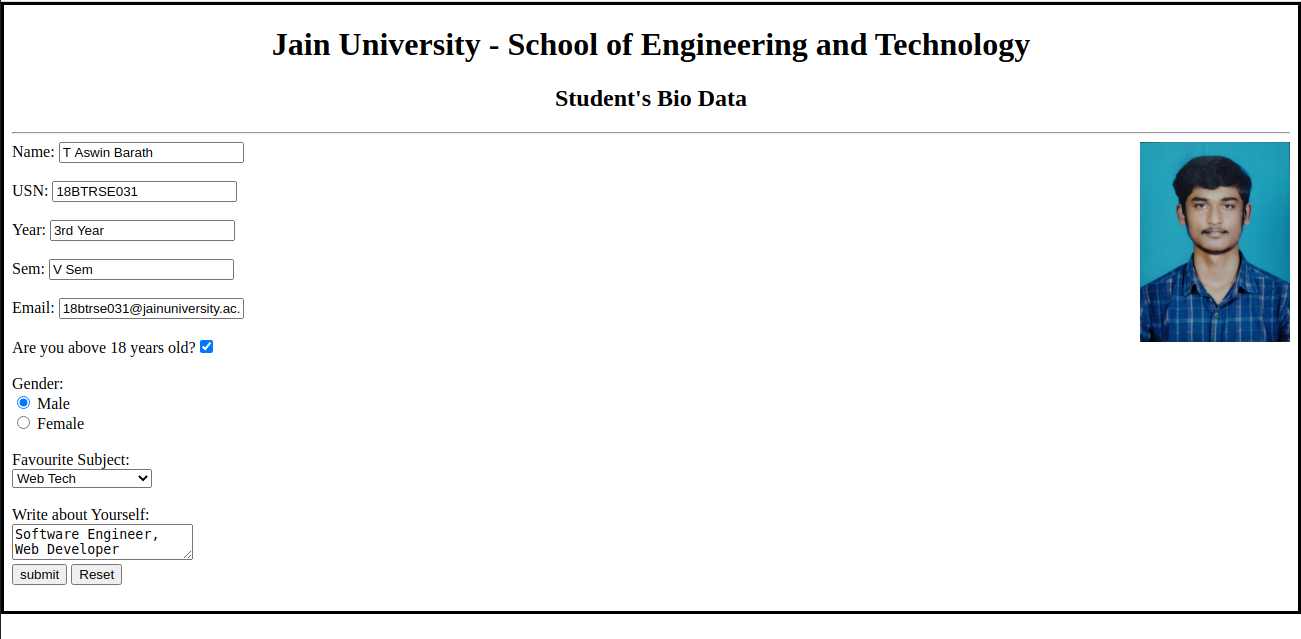
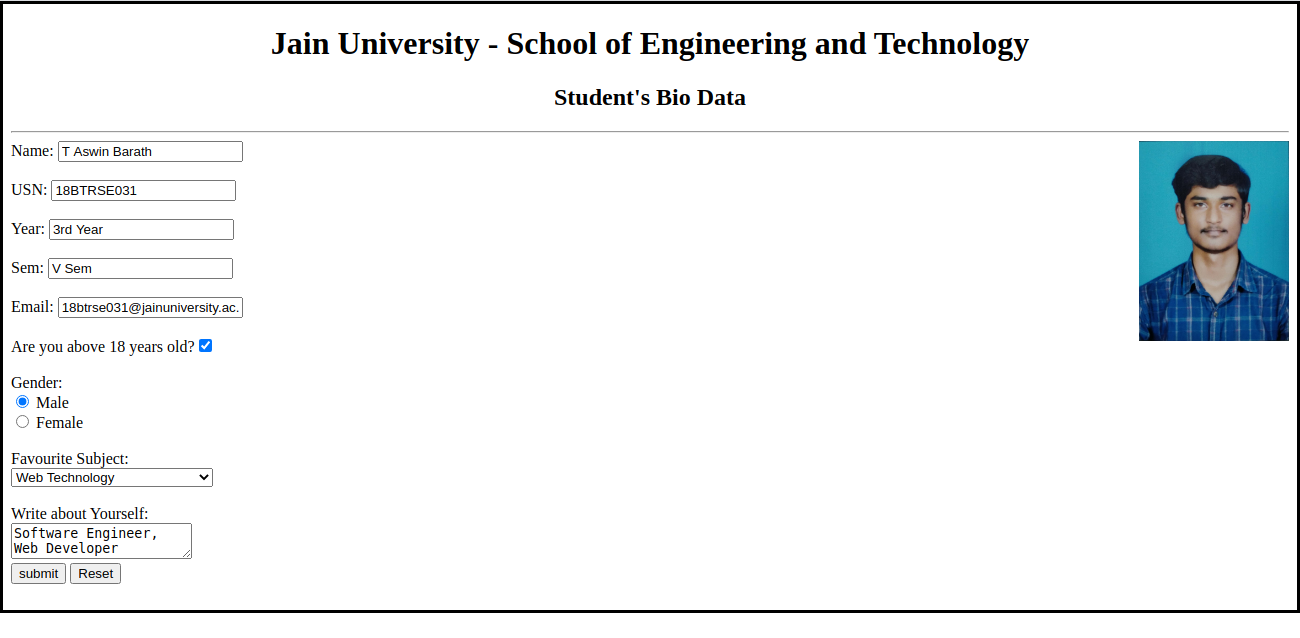
Code updates

diff --git a/index.html b/index.html
@@ -26,9 +26,13 @@
         <div>
             <label for="Subject">Favourite Subject:</label><br>
             <select name="Subject" id = "sub">
-                <option value="Web Tech" selected>Web Tech</option>
+                <option value="Web Tech" selected>Web Technology</option>
                 <option value="Networks">Computer Networks</option>
                 <option value="cloud">Cloud Computing</option>
+                <option value="cloud">Agile Software Development</option>
+                <option value="cloud">Software Quality Management</option>
+                <option value="cloud">IT Workshop(Python)</option>
+                <option value="cloud">Theory of Computation</option>
             </select>
         </div><br>
         <div>Write about Yourself:<br><textarea name="mytext">Software Engineer, Web Developer</textarea></div>
